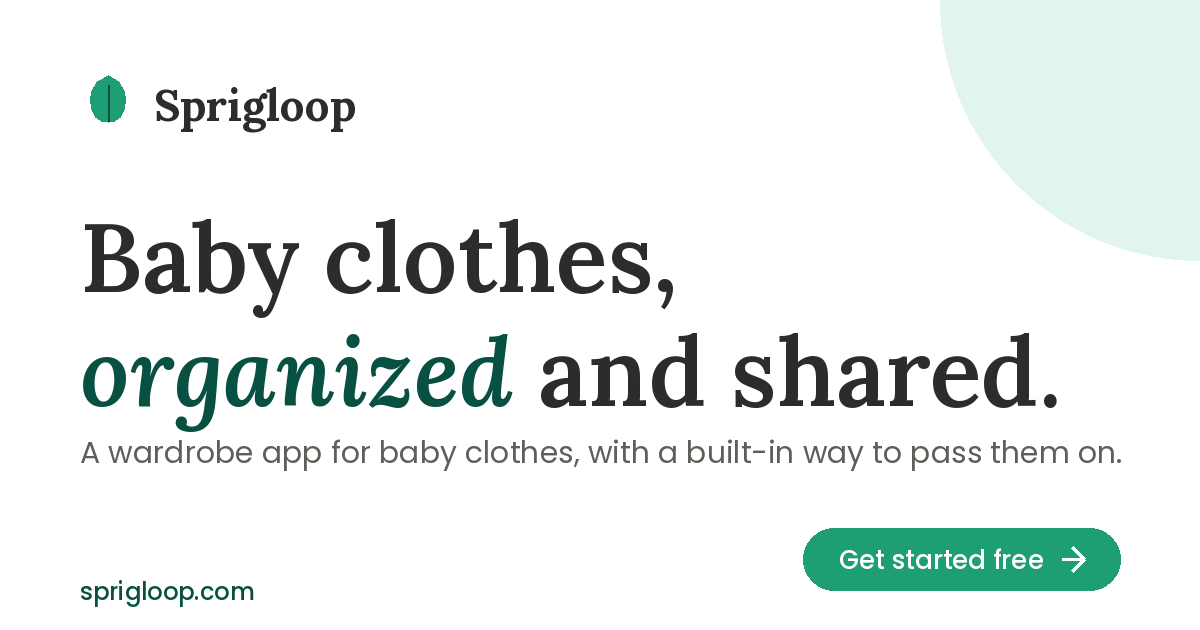
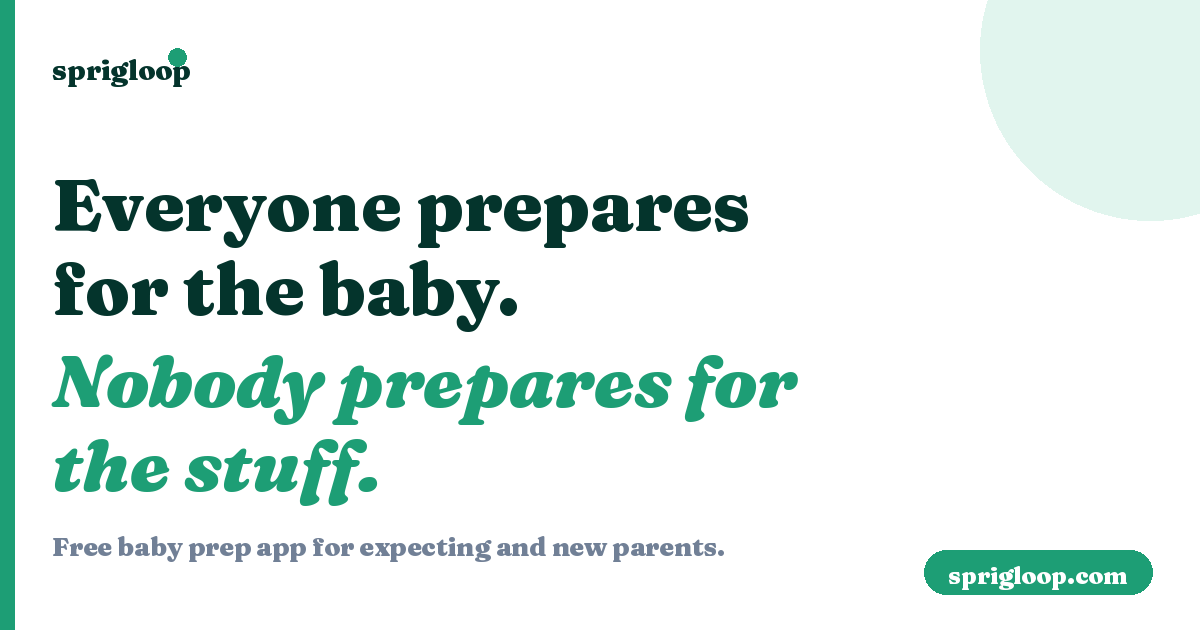
fix: update OG image and meta tags to new baby prep framing

Changed region(s): [[0.0, 0.0, 0.925, 1.0], [0.6475, 0.8143, 0.9867, 0.9651], [0.7708, 0.0, 1.0, 0.4222]]

diff --git a/index.html b/index.html
@@ -7,8 +7,8 @@
     <link rel="icon" type="image/png" sizes="32x32" href="/favicon-32.png" />
     <link rel="apple-touch-icon" sizes="180x180" href="/apple-touch-icon.png" />
     <link rel="manifest" href="/manifest.json" />
-    <title>Sprigloop: the wardrobe app for baby clothes you'll pass on</title>
-    <meta name="description" content="Track every onesie, plan every size, and pass along what your little one has outgrown to another Sprigloop family." />
+    <title>Sprigloop: Baby prep for expecting and new parents</title>
+    <meta name="description" content="Track everything you have, plan what's missing, share a wishlist with family, and pass on what they outgrow. Free for all families." />
     <link rel="canonical" href="https://sprigloop.com/" />
     <meta name="robots" content="index, follow" />
     <meta name="theme-color" content="#FAF7F2" />
@@ -16,20 +16,20 @@
     <!-- Open Graph -->
     <meta property="og:type" content="website" />
     <meta property="og:site_name" content="Sprigloop" />
-    <meta property="og:title" content="Sprigloop: the wardrobe app for baby clothes you'll pass on" />
-    <meta property="og:description" content="Track every onesie, plan every size, and pass along what your little one has outgrown to another Sprigloop family." />
+    <meta property="og:title" content="Sprigloop: Baby prep for expecting and new parents" />
+    <meta property="og:description" content="Track everything you have, plan what's missing, share a wishlist with family, and pass on what they outgrow. Free for all families." />
     <meta property="og:url" content="https://sprigloop.com/" />
     <meta property="og:image" content="https://sprigloop.com/og-image.png" />
     <meta property="og:image:width" content="1200" />
     <meta property="og:image:height" content="630" />
-    <meta property="og:image:alt" content="Sprigloop: baby clothes, organized and shared." />
+    <meta property="og:image:alt" content="Everyone prepares for the baby. Nobody prepares for the stuff." />
 
     <!-- Twitter -->
     <meta name="twitter:card" content="summary_large_image" />
-    <meta name="twitter:title" content="Sprigloop: the wardrobe app for baby clothes you'll pass on" />
-    <meta name="twitter:description" content="Track every onesie, plan every size, and pass along what your little one has outgrown to another Sprigloop family." />
+    <meta name="twitter:title" content="Sprigloop: Baby prep for expecting and new parents" />
+    <meta name="twitter:description" content="Track everything you have, plan what's missing, share a wishlist with family, and pass on what they outgrow. Free for all families." />
     <meta name="twitter:image" content="https://sprigloop.com/og-image.png" />
-    <meta name="twitter:image:alt" content="Sprigloop: baby clothes, organized and shared." />
+    <meta name="twitter:image:alt" content="Everyone prepares for the baby. Nobody prepares for the stuff." />
   </head>
   <body>
     <div id="root"></div>
